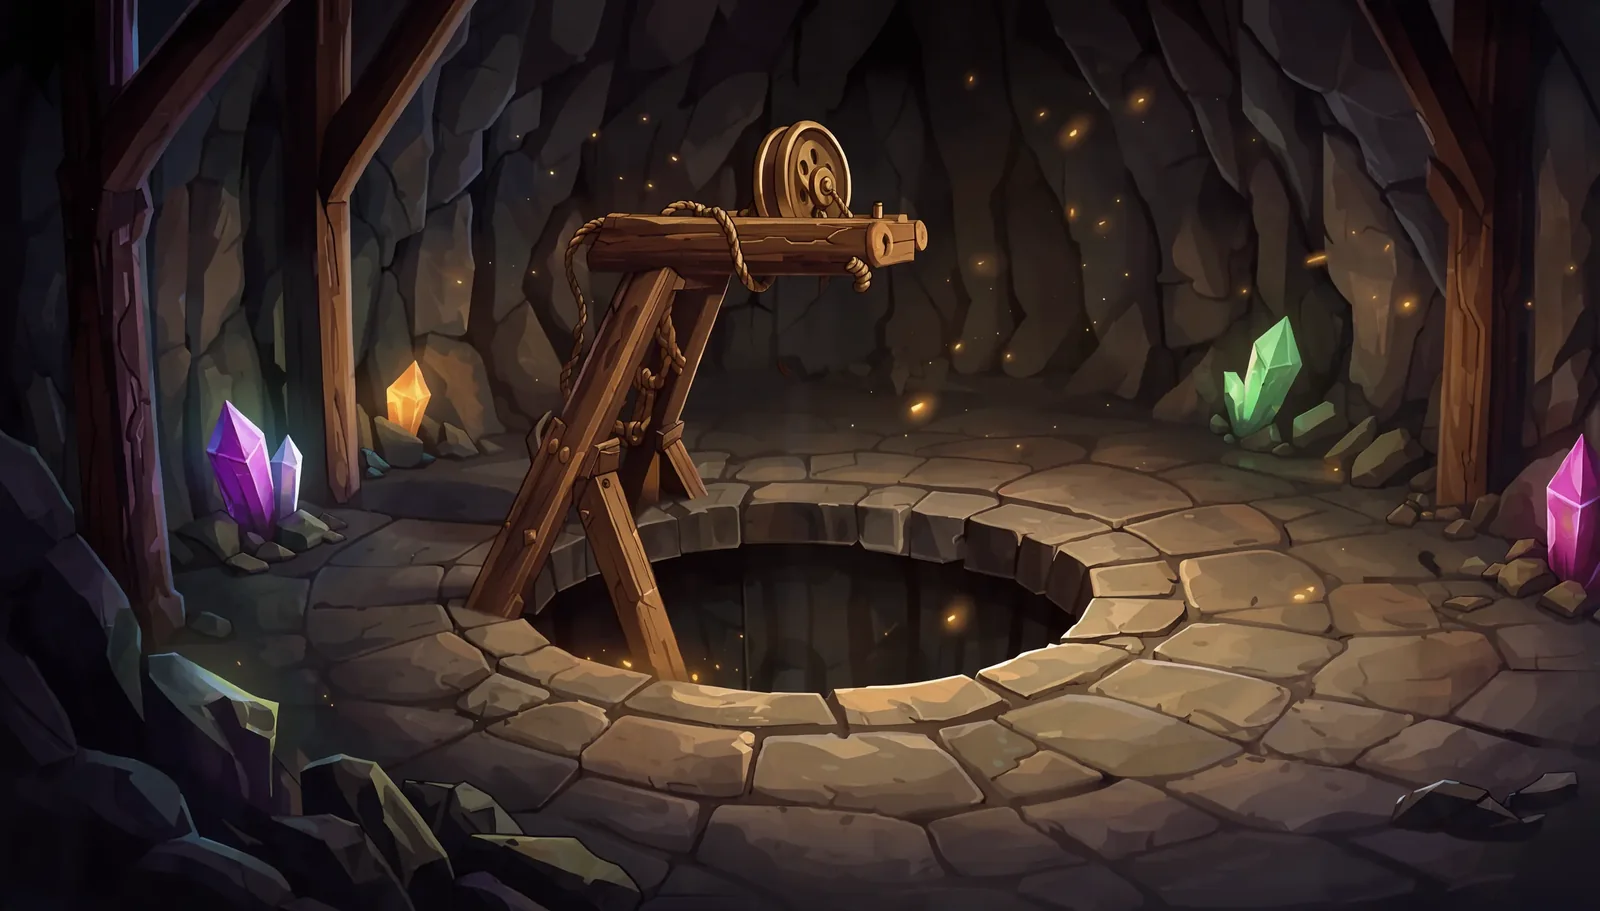
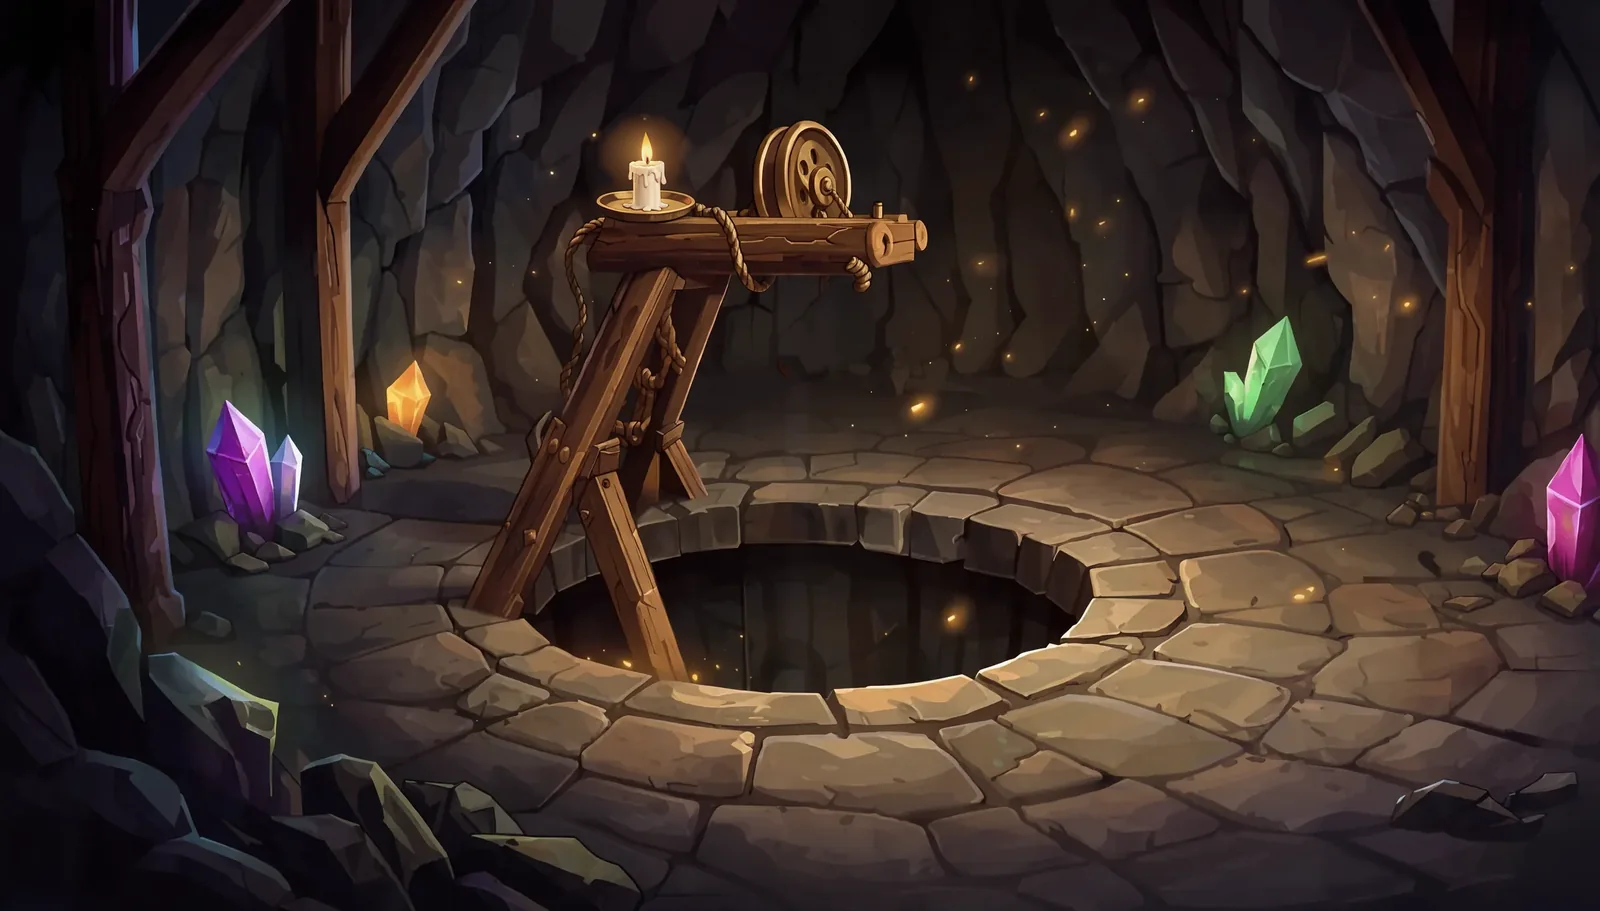
Pug: click the bucket to ride down to Level 01, scroll-to-dig hint inside the bucket handle, candle painted into the crane beam, old bottom hint removed

Changed region(s): [[0.375, 0.1229, 0.4375, 0.2459]]

diff --git a/css/page-pug.css b/css/page-pug.css
@@ -48,7 +48,6 @@ h1,h2,h3,.dsp{font-family:'Lilita One',system-ui,sans-serif;font-weight:400;lett
 .s2{right:-32%;top:12%;background:var(--amb);color:#2b1a05;--r:8deg}
 .s3{left:-31%;bottom:4%;background:#fff3d9;color:#2b1a05;--r:-4deg}
 @media(max-width:860px){.s1{left:-2%;top:3%}.s2{right:-6%;top:auto;bottom:34%}.s3{left:-6%;bottom:1%}}
-.scroll{position:absolute;left:50%;bottom:20px;translate:-50% 0;color:var(--mut);font-weight:800;font-size:12px;letter-spacing:.2em;text-transform:uppercase}
 /* shaft */
 .shaft{position:relative;padding:60px 0 40px}
 .step{position:relative;display:grid;grid-template-columns:1fr 1fr;gap:clamp(190px,15vw,260px);align-items:center;min-height:86vh;padding:30px 0}
@@ -84,7 +83,7 @@ h1,h2,h3,.dsp{font-family:'Lilita One',system-ui,sans-serif;font-weight:400;lett
 .fin img.bg{position:absolute;left:50%;bottom:-6%;translate:-50% 0;width:min(360px,60vw);opacity:.95;filter:drop-shadow(0 -10px 40px rgba(255,201,74,.35))}
 .fin .in{position:relative;z-index:2;padding-bottom:240px}
 footer{background:#0b0703;padding:26px 0;color:var(--mut);font-size:15px}footer .wrap{display:flex;justify-content:space-between;gap:12px;flex-wrap:wrap}
-@media(max-width:860px){.hero .wrap{grid-template-columns:1fr}.bigi{width:min(80%,330px);order:-1}.hero{padding-top:90px}.step{grid-template-columns:1fr;min-height:auto;gap:22px;padding:40px 0 40px 110px}.step .txt,.step:nth-child(even) .txt{order:0;text-align:left}.step p{margin-left:0}.step .ph,.step:nth-child(even) .ph{justify-self:start;width:min(100%,260px)}.node{display:none}.mus .wrap{grid-template-columns:1fr}.mus .ph{max-width:300px}.hud{display:none}#dark{background:radial-gradient(circle 260px at var(--x,50%) var(--y,40%),rgba(18,12,6,0) 0,rgba(18,12,6,.2) 55%,rgba(18,12,6,.7) 100%)}.s1{left:0}.s2{right:0}.nav{background:#120c06}.nav .btn{padding:9px 14px;font-size:15px}.hero h1{font-size:clamp(46px,15vw,80px)}.scroll{display:none}}
+@media(max-width:860px){.hero .wrap{grid-template-columns:1fr}.bigi{width:min(80%,330px);order:-1}.hero{padding-top:90px}.step{grid-template-columns:1fr;min-height:auto;gap:22px;padding:40px 0 40px 110px}.step .txt,.step:nth-child(even) .txt{order:0;text-align:left}.step p{margin-left:0}.step .ph,.step:nth-child(even) .ph{justify-self:start;width:min(100%,260px)}.node{display:none}.mus .wrap{grid-template-columns:1fr}.mus .ph{max-width:300px}.hud{display:none}#dark{background:radial-gradient(circle 260px at var(--x,50%) var(--y,40%),rgba(18,12,6,0) 0,rgba(18,12,6,.2) 55%,rgba(18,12,6,.7) 100%)}.s1{left:0}.s2{right:0}.nav{background:#120c06}.nav .btn{padding:9px 14px;font-size:15px}.hero h1{font-size:clamp(46px,15vw,80px)}}
 @media(prefers-reduced-motion:reduce){#dark{display:none}}
 
 /* production additions */
@@ -130,18 +129,24 @@ footer .row{display:flex;justify-content:space-between;gap:12px;flex-wrap:wrap}
 #bucket .sw{position:relative;will-change:transform}
 #bucket img{display:block;width:100%;height:auto}
 #bucket .bk.f{position:absolute;left:0;top:0}
+/* "scroll to dig" hint inside the bucket handle; the bucket is clickable while the page is at the top (.tap set in js) */
+#bucket.tap .sw{pointer-events:auto;cursor:pointer}
+#bucket .dig{position:absolute;left:51.5%;top:21%;translate:-50% 0;z-index:3;display:flex;flex-direction:column;align-items:center;padding:4px 6px;border:0;background:none;color:#ffe3a0;font:800 clamp(9px,calc(var(--bw,160px)*.066),12px)/1.15 Nunito,system-ui,sans-serif;letter-spacing:.16em;text-transform:uppercase;text-align:center;text-shadow:0 1px 2px #000,0 0 10px rgba(0,0,0,.9);cursor:pointer;pointer-events:auto}
+#bucket .dig i{display:block;width:clamp(9px,calc(var(--bw,160px)*.07),13px);aspect-ratio:1;margin-top:5px;border-right:3px solid currentColor;border-bottom:3px solid currentColor;rotate:45deg;filter:drop-shadow(1px 1px 1px #000);animation:digcue 1.3s ease-in-out infinite}
+#bucket .dig:focus-visible{outline:2px solid var(--amb);outline-offset:2px;border-radius:8px}
+@keyframes digcue{0%,100%{translate:0 0;opacity:.65}50%{translate:0 6px;opacity:1}}
+@media(prefers-reduced-motion:reduce){#bucket .dig i{animation:none}}
 #pc{position:absolute;left:11.81%;top:22.89%;width:75.59%;height:63.34%;visibility:hidden}
 #bucket .rope{position:absolute;left:calc(51.77% - var(--bw,160px)*.03346);bottom:calc(100% - 1px);width:calc(var(--bw,160px)*.06693);height:var(--rh,120vh);background:url(../pug-bubble-dig/img/rope.webp) left bottom/100% auto repeat-y}
 #bucket .rope::before{content:"";position:absolute;left:0;right:0;top:0;height:calc(var(--bw,160px)*.08);background:linear-gradient(rgba(10,6,4,.75),transparent)}
 .hud{width:116px}
 .hud small,.hud b{width:100%;text-align:center}
 .hud .era{margin-top:6px;text-align:center;line-height:1.25;color:var(--amb);text-wrap:balance;padding-left:.16em}
-/* hero cave: dark almost everywhere, a candle on the left end of the crane beam is the only light (positions in % of the scene image) */
-.cv>.dk{position:absolute;inset:0;z-index:1;pointer-events:none;background:radial-gradient(ellipse 22% 30% at 39.6% 23%,rgba(5,3,2,0) 0,rgba(5,3,2,.16) 38%,rgba(5,3,2,.76) 100%),rgba(5,3,2,.34)}
-.candle{position:absolute;left:39.4%;top:24.1%;width:4%;z-index:1;translate:-50% -100%;pointer-events:none}
-.candle img{display:block;width:100%;height:auto;filter:drop-shadow(0 2px 3px rgba(0,0,0,.6)) brightness(.92)}
-.candle .fl{position:absolute;left:42.7%;bottom:96.5%;width:30%;aspect-ratio:.58;translate:-50% 0;border-radius:50% 50% 50% 50%/62% 62% 38% 38%;background:radial-gradient(ellipse at 50% 72%,#fff 0,#ffe08a 34%,#ff9a2b 70%,rgba(255,120,30,0) 100%);transform-origin:50% 100%;animation:candle 1.7s ease-in-out infinite}
-.candle .gw{position:absolute;left:42.7%;bottom:100%;width:750%;aspect-ratio:1;translate:-50% 56%;background:radial-gradient(circle,rgba(255,196,100,.62) 0,rgba(255,150,60,.26) 26%,rgba(255,120,40,.08) 50%,transparent 68%);mix-blend-mode:screen;animation:candleglow 2.3s ease-in-out infinite}
+/* hero cave: dark almost everywhere, a candle painted on the crane beam (scene art) is the only light; the css flame sits on its wick and flickers (positions in % of the scene image) */
+.cv>.dk{position:absolute;inset:0;z-index:1;pointer-events:none;background:radial-gradient(ellipse 22% 30% at 40.4% 17%,rgba(5,3,2,0) 0,rgba(5,3,2,.16) 38%,rgba(5,3,2,.76) 100%),rgba(5,3,2,.34)}
+.candle{position:absolute;left:40.43%;top:17.85%;width:.85%;aspect-ratio:.4;z-index:1;translate:-50% -100%;pointer-events:none}
+.candle .fl{position:absolute;inset:0;border-radius:50% 50% 50% 50%/62% 62% 38% 38%;background:radial-gradient(ellipse at 50% 72%,#fff 0,#ffe08a 34%,#ff9a2b 70%,rgba(255,120,30,0) 100%);transform-origin:50% 100%;animation:candle 1.7s ease-in-out infinite}
+.candle .gw{position:absolute;left:50%;top:55%;width:3600%;aspect-ratio:1;translate:-50% -50%;background:radial-gradient(circle,rgba(255,196,100,.62) 0,rgba(255,150,60,.26) 26%,rgba(255,120,40,.08) 50%,transparent 68%);mix-blend-mode:screen;animation:candleglow 2.3s ease-in-out infinite}
 @keyframes candle{0%,100%{transform:scale(1,1) rotate(-1.5deg)}30%{transform:scale(.92,1.08) rotate(2deg)}55%{transform:scale(1.05,.94) rotate(-.5deg)}78%{transform:scale(.95,1.05) rotate(1.5deg)}}
 @keyframes candleglow{0%,100%{opacity:.9}35%{opacity:.72}60%{opacity:1}80%{opacity:.8}}
 @media(prefers-reduced-motion:reduce){.candle .fl,.candle .gw{animation:none}}

diff --git a/pug-bubble-dig/index.html b/pug-bubble-dig/index.html
@@ -37,12 +37,12 @@
 <div id="dark" aria-hidden="true"></div>
 <div id="beam" aria-hidden="true"><i class="cone"></i><i class="glow"></i></div>
 <header class="nav"><div class="l"><a class="brand" href="./"><img src="img/icon-192.png" alt="" width="34" height="34"><span>Pug Bubble Dig</span></a><a class="back" href="../" aria-label="Back to Snoochie Soft">← <span>Snoochie Soft</span></a></div><a class="btn" href="https://play.google.com/store/apps/details?id=pl.snoochiesoft.pugbubbledig" rel="noopener">Get it on Play →</a></header>
-<div id="bucket" aria-hidden="true"><div class="sw"><i class="rope"></i><img class="bk b" src="img/bucket-empty.webp" alt="" width="508" height="970"><canvas id="pc" width="360" height="576"></canvas><img class="bk f" src="img/bucket-front.webp" alt="" width="508" height="970"></div></div>
+<div id="bucket"><div class="sw"><i class="rope" aria-hidden="true"></i><button type="button" class="dig" aria-label="Scroll to dig: ride the bucket down to Level 01">Scroll<br>to dig<i aria-hidden="true"></i></button><img class="bk b" src="img/bucket-empty.webp" alt="" width="508" height="970"><canvas id="pc" width="360" height="576" aria-hidden="true"></canvas><img class="bk f" src="img/bucket-front.webp" alt="" width="508" height="970"></div></div>
 <aside class="hud" aria-hidden="true"><small>Depth</small><b id="m">0</b><small>m</small><i id="bar"></i><small class="era" id="era">Cave</small></aside>
 
 <main id="main">
 <section class="hero">
-  <div class="cave"><div class="cv" style="--ar:1.7556"><img class="sc" src="img/scene/hero-1600.webp" srcset="img/scene/hero-960.webp 960w, img/scene/hero-1600.webp 1600w, img/scene/hero-2528.webp 2528w" sizes="100vw" alt="" width="2528" height="1440" fetchpriority="high"><i class="dk"></i><i class="candle"><b class="gw"></b><img src="img/candle.webp" alt="" width="248" height="234"><b class="fl"></b></i><i class="gl" style="left:14.5%;top:52%;--c:#c37cff;--s:1.4"></i><i class="gl" style="left:18.6%;top:49%;--c:#e08bff;--s:0.9"></i><i class="gl" style="left:25.8%;top:44%;--c:#ffb347;--s:1.1"></i><i class="gl" style="left:79.2%;top:42%;--c:#7dffb0;--s:1.4"></i><i class="gl" style="left:50.4%;top:17.5%;--c:#ffe08a;--s:0.8"></i><i class="gl" style="left:98.5%;top:57%;--c:#ff6bd0;--s:1.2"></i><i class="gl" style="left:44%;top:72%;--c:#ffd36a;--s:0.6"></i><i class="gl" style="left:60%;top:66%;--c:#ffd36a;--s:0.6"></i>
+  <div class="cave"><div class="cv" style="--ar:1.7556"><img class="sc" src="img/scene/hero-1600.webp" srcset="img/scene/hero-960.webp 960w, img/scene/hero-1600.webp 1600w, img/scene/hero-2528.webp 2528w" sizes="100vw" alt="" width="2528" height="1440" fetchpriority="high"><i class="dk"></i><i class="candle"><b class="gw"></b><b class="fl"></b></i><i class="gl" style="left:14.5%;top:52%;--c:#c37cff;--s:1.4"></i><i class="gl" style="left:18.6%;top:49%;--c:#e08bff;--s:0.9"></i><i class="gl" style="left:25.8%;top:44%;--c:#ffb347;--s:1.1"></i><i class="gl" style="left:79.2%;top:42%;--c:#7dffb0;--s:1.4"></i><i class="gl" style="left:50.4%;top:17.5%;--c:#ffe08a;--s:0.8"></i><i class="gl" style="left:98.5%;top:57%;--c:#ff6bd0;--s:1.2"></i><i class="gl" style="left:44%;top:72%;--c:#ffd36a;--s:0.6"></i><i class="gl" style="left:60%;top:66%;--c:#ffd36a;--s:0.6"></i>
     <div class="bigi" id="bigi"><div class="fig" id="fig"><img src="img/bigi.webp" alt="Bigi the pug in a yellow mining helmet" width="892" height="1414"><canvas id="bc" width="480" height="768" aria-hidden="true"></canvas></div><span class="stk s1">POP!</span><span class="stk s2">COMBO!</span><span class="stk s3">50 eras</span></div>
   </div></div>
   <div class="wrap">
@@ -54,7 +54,6 @@
       <p class="pl" lang="pl">Po polsku: Pug Bubble Dig to bubble shooter offline z mopsem Bigim. Strzelaj kulkami, kop w głąb 50 epok i zbieraj skarby.</p>
     </div>
   </div>
-  <div class="scroll" aria-hidden="true">Scroll to dig ↓</div>
 </section>
 
 <div class="descent" id="descent"><div class="walls" id="walls" aria-hidden="true"><div class="era" data-e="beyond" data-n="Beyond" data-y="Far future"><div class="cv"><img src="img/eras/beyond-1536.webp" srcset="img/eras/beyond-768.webp 768w, img/eras/beyond-1536.webp 1536w, img/eras/beyond-2304.webp 2304w" sizes="(max-width:860px) 160vw, 92vw" alt="" width="2304" height="1152" loading="lazy" decoding="async"></div><span class="elab">Far future · Beyond</span></div><div class="era" data-e="industrial" data-n="Industrial" data-y="1800s"><div class="cv"><img src="img/eras/industrial-1536.webp" srcset="img/eras/industrial-768.webp 768w, img/eras/industrial-1536.webp 1536w, img/eras/industrial-2304.webp 2304w" sizes="(max-width:860px) 160vw, 92vw" alt="" width="2304" height="1152" loading="lazy" decoding="async"></div><span class="elab">1800s · Industrial</span></div><div class="era" data-e="baroque" data-n="Baroque" data-y="1700s"><div class="cv"><img src="img/eras/baroque-1536.webp" srcset="img/eras/baroque-768.webp 768w, img/eras/baroque-1536.webp 1536w, img/eras/baroque-2304.webp 2304w" sizes="(max-width:860px) 160vw, 92vw" alt="" width="2304" height="1152" loading="lazy" decoding="async"></div><span class="elab">1700s · Baroque</span></div><div class="era" data-e="renaissance" data-n="Renaissance" data-y="1500s"><div class="cv"><img src="img/eras/renaissance-1536.webp" srcset="img/eras/renaissance-768.webp 768w, img/eras/renaissance-1536.webp 1536w, img/eras/renaissance-2304.webp 2304w" sizes="(max-width:860px) 160vw, 92vw" alt="" width="2304" height="1152" loading="lazy" decoding="async"></div><span class="elab">1500s · Renaissance</span></div><div class="era" data-e="medieval" data-n="Medieval" data-y="1300s"><div class="cv"><img src="img/eras/medieval-1536.webp" srcset="img/eras/medieval-768.webp 768w, img/eras/medieval-1536.webp 1536w, img/eras/medieval-2304.webp 2304w" sizes="(max-width:860px) 160vw, 92vw" alt="" width="2304" height="1152" loading="lazy" decoding="async"></div><span class="elab">1300s · Medieval</span></div><div class="era" data-e="greece" data-n="Ancient Greece" data-y="800 BC"><div class="cv"><img src="img/eras/greece-1536.webp" srcset="img/eras/greece-768.webp 768w, img/eras/greece-1536.webp 1536w, img/eras/greece-2304.webp 2304w" sizes="(max-width:860px) 160vw, 92vw" alt="" width="2304" height="1152" loading="lazy" decoding="async"></div><span class="elab">800 BC · Ancient Greece</span></div><div class="era" data-e="egypt" data-n="Ancient Egypt" data-y="2500 BC"><div class="cv"><img src="img/eras/egypt-1536.webp" srcset="img/eras/egypt-768.webp 768w, img/eras/egypt-1536.webp 1536w, img/eras/egypt-2304.webp 2304w" sizes="(max-width:860px) 160vw, 92vw" alt="" width="2304" height="1152" loading="lazy" decoding="async"></div><span class="elab">2500 BC · Ancient Egypt</span></div></div>

diff --git a/js/page-pug.js b/js/page-pug.js
@@ -1,5 +1,5 @@
 /* Pug Bubble Dig page: dark cave, headlamp, Bigi jumps into the bucket and rides the rope down past the eras. */
-initSmooth();
+const lenis = initSmooth();
 const $ = s => document.querySelector(s), $$ = s => [...document.querySelectorAll(s)];
 const clamp = (v, a, b) => Math.max(a, Math.min(b, v));
 const lerp = (a, b, t) => a + (b - a) * t;
@@ -189,7 +189,7 @@ if (!RM) {
   const build = () => {
     if (jump) { jump.scrollTrigger && jump.scrollTrigger.kill(true); jump.kill(); jump = null; }
     gsap.set(bigi, { clearProps: 'all' }); gsap.set(pc, { clearProps: 'all' }); gsap.set(sw, { clearProps: 'scale' });
-    $$('.hero .wrap>div:first-child,.scroll,.stk').forEach(e => gsap.set(e, { clearProps: 'all' }));
+    $$('.hero .wrap>div:first-child,.stk,#bucket .dig').forEach(e => gsap.set(e, { clearProps: 'all' }));
     layout();
     if (matchMedia('(prefers-reduced-motion: reduce)').matches) return;   // no pinned jump: Bigi just sits by the shaft
     const V = innerHeight, hr = hero.getBoundingClientRect(), br = bigi.getBoundingClientRect();
@@ -204,7 +204,7 @@ if (!RM) {
       scrollTrigger: { trigger: hero, start: 'top top', end: '+=' + pinLen, pin: true, scrub: .5, anticipatePin: 1, invalidateOnRefresh: true },
     });
     jump.to('.hero .wrap>div:first-child', { autoAlpha: 0, x: -90, duration: 1.4 }, 0)
-        .to('.scroll', { autoAlpha: 0, duration: .8 }, 0)
+        .to('#bucket .dig', { autoAlpha: 0, duration: .5 }, 0)
         .to('.cave', { '--g': .3, duration: 2.4 }, 0)
         .to('.stk', { scale: 0, duration: .8 }, .2)
         .to(bigi, { x: dx, duration: 3 }, 1)
@@ -222,6 +222,16 @@ if (!RM) {
   build();
   let rt; addEventListener('resize', () => { clearTimeout(rt); rt = setTimeout(() => { build(); ScrollTrigger.refresh(); }, 250); });
 
+  /* click the bucket (or its "scroll to dig" hint) at the top: ride down slowly, Bigi jumps in on the way, stop at Level 01 */
+  const goDig = () => {
+    const s = $('.step'), r = s.getBoundingClientRect();
+    const to = Math.round(scrollY + r.top + r.height / 2 - innerHeight / 2);
+    if (lenis) lenis.scrollTo(to, { duration: clamp((to - scrollY) / 420, 4.5, 8), easing: t => t < .5 ? 2 * t * t : 1 - Math.pow(-2 * t + 2, 2) / 2 });
+    else scrollTo({ top: to, behavior: 'smooth' });
+  };
+  sw.addEventListener('click', () => { if (bk.classList.contains('tap')) goDig(); });
+  $('#bucket .dig').addEventListener('click', e => { e.stopPropagation(); goDig(); });
+
   /* bucket sways idly and swings with the scroll speed (a pendulum hanging from far above) */
   gsap.fromTo(sw, { rotation: -1.1 }, { rotation: 1.1, duration: 2.8, ease: 'sine.inOut', yoyo: true, repeat: -1 });
   const rotQ = gsap.quickTo(bk, 'rotation', { duration: .9, ease: 'power3' });
@@ -237,6 +247,7 @@ if (!RM) {
     const ht = hero.getBoundingClientRect().top;
     bk.style.setProperty('--rh', Math.max(0, restTop + 3 - Math.max(0, ht + ropeTopRel)).toFixed(0) + 'px');
     rotQ(clamp(-sv / 1600, -3, 3));
+    bk.classList.toggle('tap', sy < 40);
     dk.style.opacity = (.35 + .65 * clamp(sy / (pinLen * .9), 0, 1)).toFixed(2);   // the hero is lit enough to read, the shaft gets darker as you go down
     const r = fig.getBoundingClientRect();
     const figOp = +gsap.getProperty(bigi, 'opacity');
